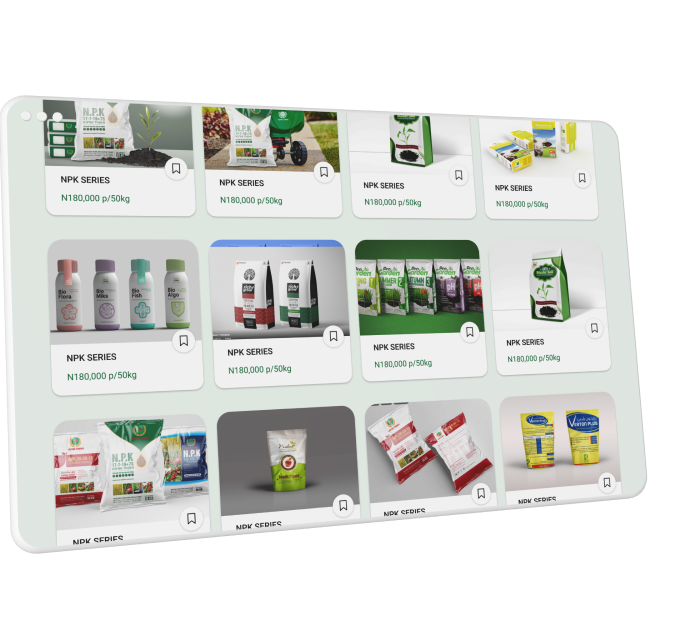
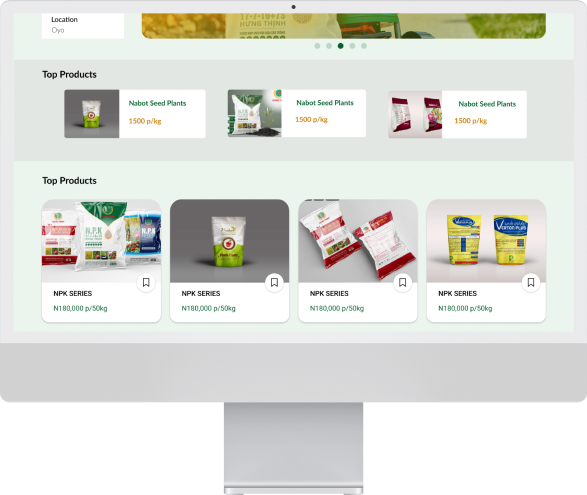
change images in landing page

diff --git a/pages/index.js b/pages/index.js
@@ -6,7 +6,7 @@ import Footer from "../components/Footer";
 import styles from "../styles/sass/index.module.scss";
 
 // assets
-import bags from "../assets/images/bags.png";
+import products from "../assets/images/products.png";
 import dashboard from "../assets/images/dashboard.png";
 
 import Image from "next/image";
@@ -55,7 +55,7 @@ function index() {
               <Link href="/account/">Get started</Link>
             </div>
             <div>
-              <Image src={bags} alt="A man smiling" />
+              <Image src={products} alt="A man smiling" />
             </div>
           </div>
         </div>
